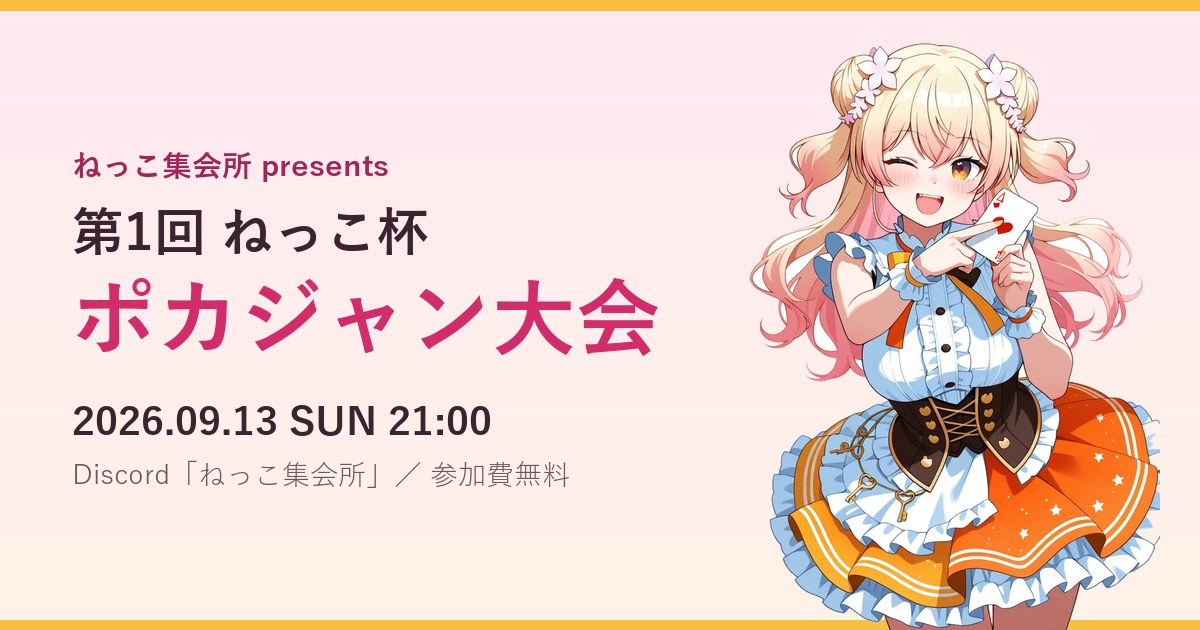
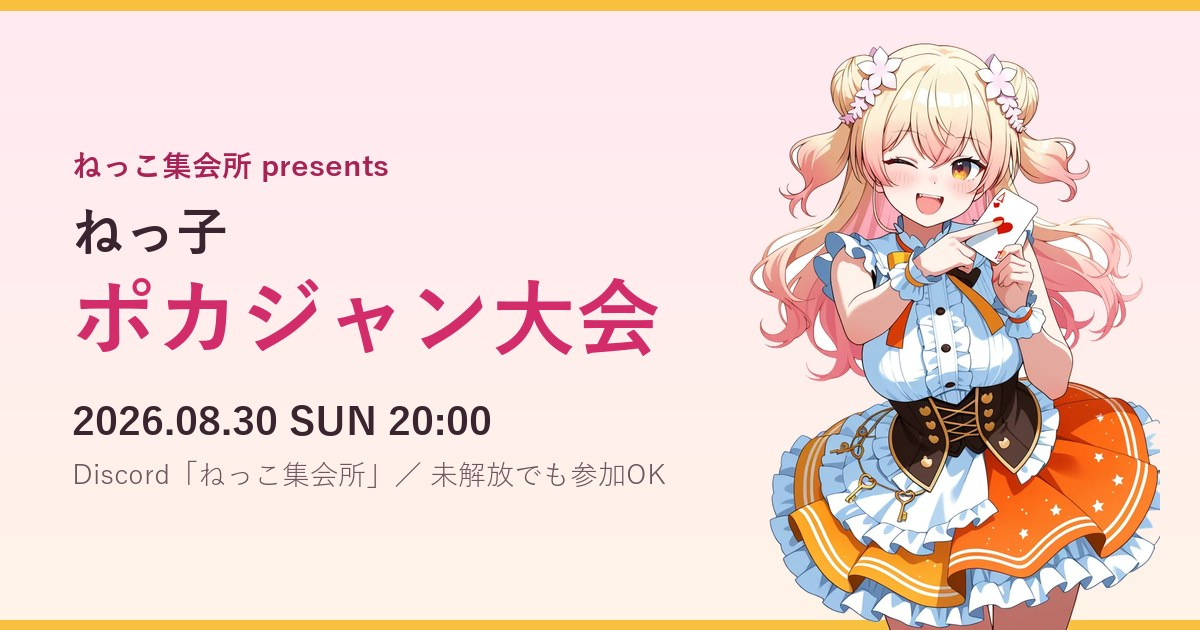
開催日時と応募締切を確定し、検索よけを追加
開催: 2026年8月30日(日)20:00 / 応募締切: 8月23日(日)23:59
どちらも日曜であることは検算済み。

サイト内9か所とOGP画像の焼き込み文字をそろえた。
あわせて noindex メタと robots.txt を追加している。

OGPの再生成で事故を1つ踏んだので記録しておく。
tools/generate_nene.py --preset ogp は文字がスクリプトに直書きされていて
sd-images.json を読まないため、設定を直したのに画像だけ別の日付
(2026.09.13 21:00) で生成された。共有版の sd_generate.py で作り直し、
直書き側の文言もそろえたうえで、画像ガイドと落とし穴集に注意を書いた。

ドキュメントも現状に合わせた。
- 応募締切と公開先を「未確定」から「決まったこと」へ移動
- GitHub Pages は公開中、リポジトリは Public である旨を明記
- noindex で防げるのは「検索からの偶然の発見」だけで、見られたくない情報は
  そもそも載せない、という判断基準を書いた

diff --git a/index.html b/index.html
@@ -6,10 +6,14 @@
 <!-- EDIT: ページタイトル（Discordに貼ったときのリンク名になります） -->
 <title>ねっ子ポカジャン大会 ｜ ねっこ集会所</title>
 <!-- EDIT: 説明文（Discordのリンクプレビューに出ます） -->
-<meta name="description" content="2026年8月14日(金)21:00より、Discord「ねっこ集会所」で開催するホロドリのミニゲーム「ポカジャン」大会の案内ページです。勝ち上がりトーナメント方式、ポカジャン未解放でも参加できます。">
+<meta name="description" content="2026年8月30日(日)20:00より、Discord「ねっこ集会所」で開催するホロドリのミニゲーム「ポカジャン」大会の案内ページです。応募は8月23日(日)23:59まで。勝ち上がりトーナメント方式、ポカジャン未解放でも参加できます。">
+<!-- 検索結果に出したくないページなので、クローラーには載せない指示を出しています。
+     防げるのは「検索からの偶然の発見」だけで、URLを知っている人には効きません。
+     Discordのリンクプレビュー（下のog:）は、この指定とは別系統なので従来どおり出ます。 -->
+<meta name="robots" content="noindex, nofollow">
 <meta property="og:type" content="website">
 <meta property="og:title" content="ねっ子ポカジャン大会 ｜ ねっこ集会所">
-<meta property="og:description" content="その手札、咲かせにいこう。2026.08.14(金) 21:00 スタート。勝ち上がりトーナメントで優勝者・最大得点者・ねねち賞を決めます。">
+<meta property="og:description" content="その手札、咲かせにいこう。2026.08.30(日) 20:00 スタート。応募は8月23日(日)23:59まで。勝ち上がりトーナメントで優勝者・最大得点者・ねねち賞を決めます。">
 <!-- EDIT: Discordのリンクプレビューに出す画像（tools/generate_nene.py --preset ogp で作り直せます） -->
 <meta property="og:image" content="assets/img/ogp.jpg">
 <meta property="og:image:width" content="1200">
@@ -155,7 +159,7 @@
 
     <!-- カウントダウン（JSが有効なときだけ表示。日時はHTML側にも書いてあります） -->
     <!-- EDIT: 開催日時（ISO形式。手札やABOUTの表記と揃えてください） -->
-    <div class="countdown" hidden data-deadline="2026-08-14T21:00:00+09:00">
+    <div class="countdown" hidden data-deadline="2026-08-30T20:00:00+09:00">
       <span class="countdown__label">開催まであと</span>
       <span class="countdown__cell"><b data-unit="days">--</b><i>日</i></span>
       <span class="countdown__cell"><b data-unit="hours">--</b><i>時間</i></span>
@@ -168,15 +172,15 @@
         <div class="tile">
           <span class="tile__label">DATE</span>
           <!-- EDIT: 開催日 -->
-          <strong class="tile__value">8<span class="tile__unit">/</span>14</strong>
-          <span class="tile__note">2026年（金）</span>
+          <strong class="tile__value">8<span class="tile__unit">/</span>30</strong>
+          <span class="tile__note">2026年（日）</span>
         </div>
       </li>
       <li class="hand__tile" style="--i:1">
         <div class="tile">
           <span class="tile__label">OPEN</span>
           <!-- EDIT: 開始時刻 -->
-          <strong class="tile__value">21<span class="tile__unit">:</span>00</strong>
+          <strong class="tile__value">20<span class="tile__unit">:</span>00</strong>
           <span class="tile__note">だいたい2時間</span>
         </div>
       </li>
@@ -237,7 +241,7 @@
       <span class="marquee__set">
         <em>NEKKO POKAJAN CUP</em><img class="marquee__nekko" src="assets/img/nekko-1.webp" alt="" loading="lazy">
         <em>WINNERS TOURNAMENT</em><img class="marquee__nekko" src="assets/img/nekko-2.webp" alt="" loading="lazy">
-        <em>2026.08.14 FRI 21:00</em><img class="marquee__nekko" src="assets/img/nekko-3.webp" alt="" loading="lazy">
+        <em>2026.08.30 SUN 20:00</em><img class="marquee__nekko" src="assets/img/nekko-3.webp" alt="" loading="lazy">
       </span>
     </div>
   </div>
@@ -271,7 +275,7 @@
           <div>
             <dt>開催日時</dt>
             <!-- EDIT: 開催日時（手札の内容と揃えてください） -->
-            <dd><strong>2026年8月14日（金）21:00</strong><br>所要はだいたい2時間くらい</dd>
+            <dd><strong>2026年8月30日（日）20:00</strong><br>所要はだいたい2時間くらい</dd>
           </div>
           <div>
             <dt>会場</dt>
@@ -539,9 +543,9 @@
         </span>
         <p class="entry__cta-inner">
           <!-- EDIT: ここをGoogleフォームのURLに差し替えてください -->
-          <a class="btn btn--primary btn--lg" href="#" target="_blank" rel="noopener noreferrer">応募フォームを開く</a>
+          <a class="btn btn--primary btn--lg" href="https://docs.google.com/forms/d/e/1FAIpQLSc4dYxDz1h4Ts-uf06dPMVQxvSrWGm5GMsrTMnSwDWX8hrjmA/viewform?usp=dialog" target="_blank" rel="noopener noreferrer">応募フォームを開く</a>
           <!-- EDIT: 応募締切 -->
-          <span class="entry__deadline">開催：2026年8月14日（金）21:00 ／ 締切は決まりしだい掲載します</span>
+          <span class="entry__deadline">応募締切：2026年8月23日（日）23:59 ／ 開催：8月30日（日）20:00</span>
         </p>
       </div>
     </div>

diff --git a/tools/generate_nene.py b/tools/generate_nene.py
@@ -369,11 +369,19 @@ def build_ogp():
                 continue
         return ImageFont.load_default(size)
 
+    # ▼ 文字はここに直書きされています（このスクリプトは sd-images.json を読みません）。
+    #    **OGP を作り直すときは、こちらではなく共有版を使ってください。**
+    #
+    #        python ../.claude/skills/illust-forge/scripts/sd_generate.py --preset ogp
+    #
+    #    共有版は sd-images.json の ogp.lines を読むので、設定と画像がずれません。
+    #    ここを使うと、設定を直したのに画像だけ古いままになります（実際に踏みました）。
+    #    保険として、下の内容は sd-images.json と同じにそろえてあります。
     draw.text((72, 150), "ねっこ集会所 presents", font=font(30), fill="#A82355")
-    draw.text((72, 205), "第1回 ねっこ杯", font=font(52), fill="#3A2430")
+    draw.text((72, 205), "ねっ子", font=font(52), fill="#3A2430")
     draw.text((72, 275), "ポカジャン大会", font=font(84), fill="#D22C6B")
-    draw.text((72, 400), "2026.09.13 SUN 21:00", font=font(40), fill="#3A2430")
-    draw.text((72, 460), "Discord「ねっこ集会所」／ 参加費無料", font=font(28, False), fill="#6E5560")
+    draw.text((72, 400), "2026.08.30 SUN 20:00", font=font(40), fill="#3A2430")
+    draw.text((72, 460), "Discord「ねっこ集会所」／ 未解放でも参加OK", font=font(28, False), fill="#6E5560")
 
     chara = OUT_DIR / "nene.webp"
     if chara.exists():

diff --git a/tools/build_operation_xlsx.py b/tools/build_operation_xlsx.py
@@ -365,7 +365,12 @@ def main():
         write_sheet(wb, name, blocks, i)
     build_index(wb, [n for n, _ in sheets])
     wb.active = 0
-    wb.save(OUT)
+    try:
+        wb.save(OUT)
+    except PermissionError:
+        sys.exit(f"保存できませんでした: {OUT}\n"
+                 f"**このファイルを Excel で開いたままだと書き込めません。**\n"
+                 f"閉じてから、もう一度実行してください。")
 
     print(f"書き出しました: {OUT}")
     for name, blocks in sheets:

diff --git a/docs/basic-design.md b/docs/basic-design.md
@@ -42,15 +42,33 @@ Discord のテキストチャンネルに案内を流すと、あとから来た
 **未確定のまま残っている項目**（決まりしだい差し替えが必要）
 
 - 応募フォームの URL（`index.html` の ENTRY ボタンが `href="#"` のまま）
-- 応募締切（現在は「決まりしだい掲載します」表記）
-- 問い合わせ先（**主催者個人のDiscord DMへ変更する方針**。フッターの
-  `<!-- EDIT: 問い合わせ先 -->` を `https://discord.com/users/<ユーザーID>` へのリンクにする。
-  集会所は場所を借りているだけなので、連絡先を集会所にはしない）
 - **トーナメント表の中身**（BRACKETセクションの枠は用意済み。当日まで
-  「当日をお楽しみに」の表示のまま）。参加者は Discord の表示名で載せる方針。
-  抽選と反映は `tools/draw_tables.py` → `tools/update_bracket.py` で行う
-- **公開先**（GitHub Pages を有効にする方針。**当日の更新に push が要るので、
-  大会前までに設定しておく必要がある**）
+  「当日をお楽しみに」の表示のまま）。抽選と反映は
+  `tools/draw_tables.py` → `tools/update_bracket.py` で行う
+- **参加者名をサイトに出すかどうか**（下記）
+
+### 決まったこと
+
+| 項目 | 内容 | 決めた日 |
+|---|---|---|
+| 開催日時 | **2026年8月30日（日）20:00** | 2026-08-03 |
+| 応募締切 | **2026年8月23日（日）23:59**（開催の1週間前） | 2026-08-03 |
+| 問い合わせ先 | 主催者個人の Discord DM。集会所は場所を借りているだけなので、連絡先は集会所にしない | 2026-08-02 |
+| 公開先 | GitHub Pages（**公開中**）https://fuku-hiro112.github.io/nenekko-cup/ | — |
+
+### 情報の見えかたについて
+
+**リポジトリは Public です。** サイトの URL を知らなくても、GitHub から
+ソースと過去の全履歴が読めます。**一度コミットした内容は、あとでサイトから
+消しても履歴に残り続けます。**
+
+`index.html` に `noindex` と `robots.txt` を置いて検索避けをしていますが、
+**防げるのは「検索からの偶然の発見」だけ**です。URL を渡された人、GitHub から
+辿る人には効きません。
+
+そのため、**参加者名のように出したくない情報は最初から載せない**という判断が要ります。
+BRACKET に表示名を出すかは、参加者が確定してから決めます。
+（日時・ルール・応募方法は広めたい情報なので、公開されていて問題ありません）
 
 ## 3. ページ全体の構成
 

diff --git a/docs/image-guide.md b/docs/image-guide.md
@@ -43,7 +43,12 @@
 **Forge は `start_forge_api.bat` から起動してください。** 通常の起動方法だと `--api` が
 付かず、スクリプトから生成できません。
 
-生成スクリプトは2つあり、**どちらでも同じ画像が出ます**（seed固定でバイト単位の一致を確認済み）。
+生成スクリプトは2つあります。キャラクター画像は**どちらでも同じものが出ます**
+（seed固定でバイト単位の一致を確認済み）。
+
+> **ただし OGP だけは違います。** 専用版（`tools/generate_nene.py`）は文字を
+> スクリプトに直書きしており、`sd-images.json` を読みません。
+> **OGP を作り直すときは必ず共有版を使ってください**（章4）。
 
 ```bash
 # 共有版（推奨）— illust-forge Skill 同梱。設定はルートの sd-images.json を自動で探す
@@ -111,6 +116,10 @@ python ../.claude/skills/illust-forge/scripts/sd_generate.py --preset ogp
 
 **この処理は Forge を起動していなくても動きます。** `assets/img/nene.webp` と
 `sd-images.json` の `ogp` セクションの文字を合成するだけだからです。
+
+> **`tools/generate_nene.py --preset ogp` を使わないでください。**
+> そちらは文字がスクリプトに直書きされていて `sd-images.json` を読まないため、
+> 設定を直しても画像に反映されません。**日付だけ古いOGPができます**（実際に踏みました）。
 
 `ogp` セクションの `lines` に、表示する文字・位置・サイズ・色を書きます。
 **大会名や日時を変えたら、ここも直して画像を作り直してください。**

diff --git a/README.md b/README.md
@@ -103,11 +103,22 @@ Chrome の DevTools（`F12` → `Ctrl`+`Shift`+`M`）でも同じことができ
 
 ## 公開する
 
-公開先はまだ決めていません。どちらでも動きます。
+**GitHub Pages で公開中です。** → <https://fuku-hiro112.github.io/nenekko-cup/>
 
-- **GitHub Pages** — リポジトリに push し、Settings → Pages でブランチを指定するだけ。
-  パスはすべて相対なので追加設定は要りません
-- **ファイルを直接渡す** — フォルダごと zip にすれば、`index.html` を開くだけで見られます
+`main` に push すれば数十秒で反映されます。パスはすべて相対なので追加設定は要りません。
+
+### 見えかたについて
+
+**リポジトリは Public です。** サイトのURLを知らない人でも、GitHub から
+ソースと過去の全履歴が読めます。**一度コミットしたものは、あとでサイトから
+消しても履歴に残り続けます。**
+
+検索避けとして `index.html` に `noindex`、ルートに `robots.txt` を置いていますが、
+**防げるのは「検索からの偶然の発見」だけ**です。URLを渡された人には効きません。
+
+そのため、**見られたくない情報は最初から載せない**でください。
+参加者名をトーナメント表に出すかは、この点をふまえて判断します
+（詳しくは [基本設計書](docs/basic-design.md)）。
 
 ## 権利について
 

diff --git a/docs/operation-guide.md b/docs/operation-guide.md
@@ -21,12 +21,12 @@
 |---|---|---|
 | Python が動くか確認 | — | `python --version` で 3.x が出ればOK |
 | **応募フォームのURLを入れる** | **未設定** | `index.html` の `<!-- EDIT: ここをGoogleフォームのURLに` |
-| **GitHub Pages を有効にする** | **未設定** | GitHub → Settings → Pages → Branch に `main` を指定 |
-| 応募締切を決めて書く | 未定 | `index.html` の `<!-- EDIT: 応募締切 -->` |
+| GitHub Pages | **公開中** | https://fuku-hiro112.github.io/nenekko-cup/ |
+| 開催日時 | 2026年8月30日（日）20:00 | 掲載済み |
+| 応募締切 | 2026年8月23日（日）23:59 | 掲載済み |
 
-> **GitHub Pages は当日までに必ず有効にしてください。** 当日の更新は
-> 「ファイルを書き換えて push」で反映する仕組みなので、公開していないと
-> 参加者がトーナメント表を見られません。
+> **未設定なのは応募フォームのURLだけです。** ENTRY のボタンが `href="#"` のままなので、
+> このままだと押しても何も起きません。**告知の前に必ず入れてください。**
 
 動作確認は次の1行でできます。エラーが出なければ準備完了です。
 

diff --git a/docs/detail-design.md b/docs/detail-design.md
@@ -401,6 +401,7 @@ Webフォントの読み込みで文字幅が変わるため、`document.fonts.r
 | 11 | `.site-nav ul` の `align-items: center` をレスポンシブ側で戻し忘れる | 横並び用の指定なので、縦に積むスマホでは項目が中身の幅まで縮み、**ENTRY のピルが伸びない**（実際に踏みました） |
 | 12 | ヘッダーのロゴ札の文字を増やす／`white-space: nowrap` を外す | スマホで札が2行になり、**ヘッダーの高さ（62px）からはみ出す** |
 | 13 | `<!-- BRACKET:START -->` / `<!-- BRACKET:END -->` を消す | `update_bracket.py` が書き込み場所を見つけられず止まります。**この間を手で直しても、次の実行で消えます** |
+| 14 | OGP を `tools/generate_nene.py --preset ogp` で作り直す | そちらは文字が直書きで `sd-images.json` を読みません。**日付を直したのに画像だけ古いまま**になります（実際に踏みました）。共有版の `sd_generate.py` を使ってください |
 
 ---
 
